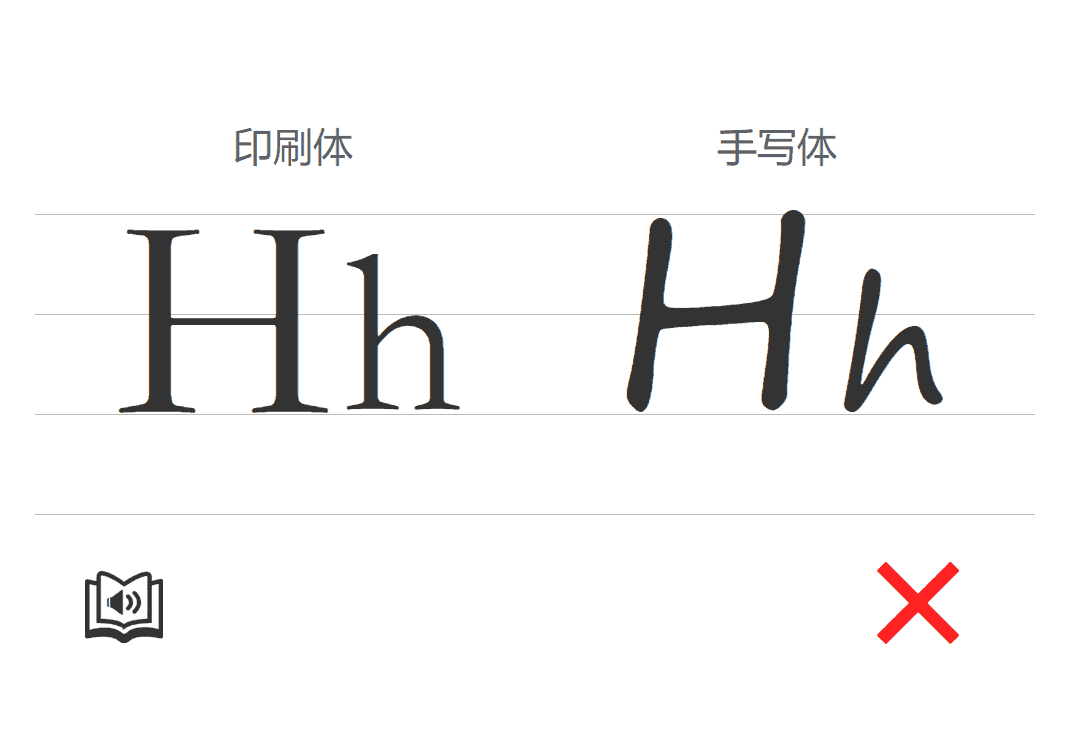
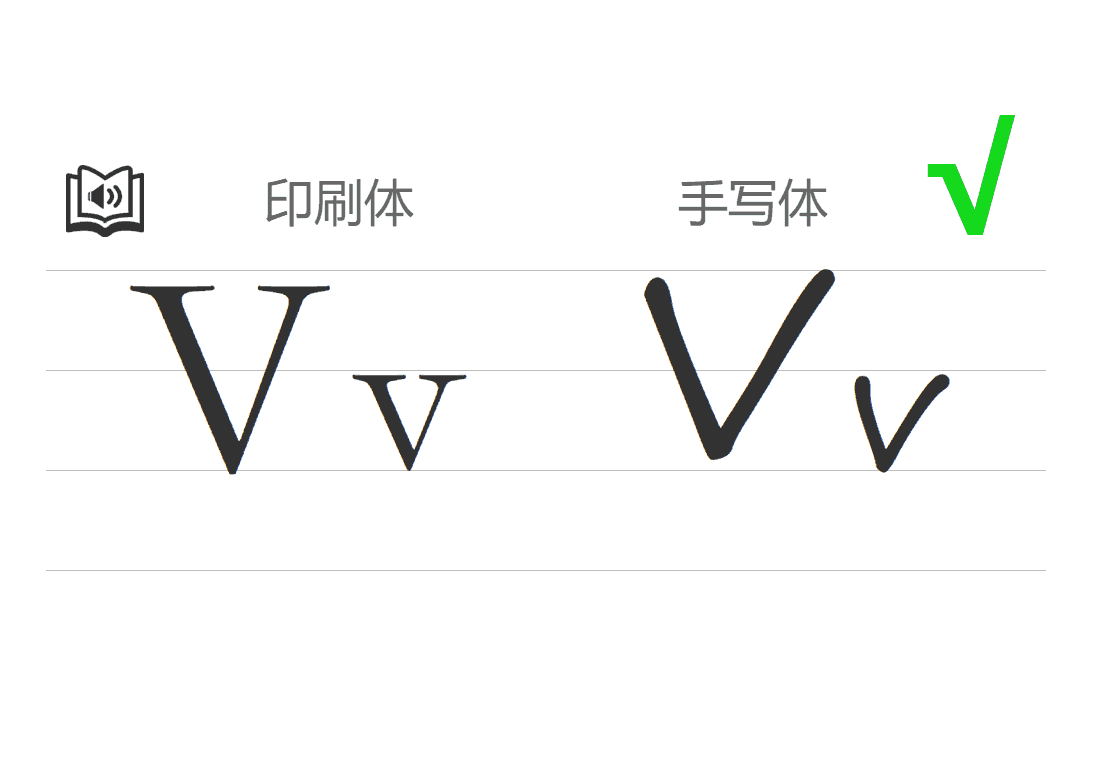
页面调整

diff --git a/js/play.js b/js/play.js
@@ -38,12 +38,10 @@ $(function() {
     //初始化
     playLetter();
 
-    var keyList = {
-        c70: 'f'
-    }
-
     //事件绑定
+    var working = false;
     $(document).on('keydown', function(e) {
+        //按键范围检查
         var code = e.originalEvent.keyCode;
         if(code < 65 || code > 90) {
             if(code == 13) {
@@ -51,6 +49,13 @@ $(function() {
             }
             return;
         }
+        //播放状态检查
+        if (working) {
+            return;
+        } else {
+            working = true;
+        }
+        //执行操作
         var keyLetter = String.fromCharCode(code - 65 + 97);
         if(keyLetter == curLetter) {
             audioPlay('success');
@@ -69,6 +74,9 @@ $(function() {
                 $result.removeClass('error');
             }, 300);
         }
+        setTimeout(function(){
+            working = false;
+        }, 500);
     });
     $audioCtrl.on('click', function() {
         audioPlay(curLetter);

diff --git a/css/screen.css b/css/screen.css
@@ -7,7 +7,7 @@
 }
 .letter-outer {
     position: absolute;
-    top: 40%;
+    top: 48%;
     left: 50%;
     width: 1000px;
     text-align: center;
@@ -81,25 +81,25 @@
 
 .letter-top {
     position: absolute;
-    top: -70px;
+    top: -78px;
     width: 1000px;
 }
 .letter-top span {
     display: inline-block;
-    padding: 0 180px;
-    font-size: 40px;
+    padding: 0 130px;
+    font-size: 50px;
     color: #666;
 }
 .letter-voice {
     position: absolute;
-    bottom: -150px;
-    left: 50px;
+    top: -80px;
+    left: 20px;
     cursor: pointer;
 }
 .letter-results {
     position: absolute;
-    bottom: -185px;
-    right: 50px;
+    top: -145px;
+    right: 20px;
 }
 .letter-results i {
     display: none;
